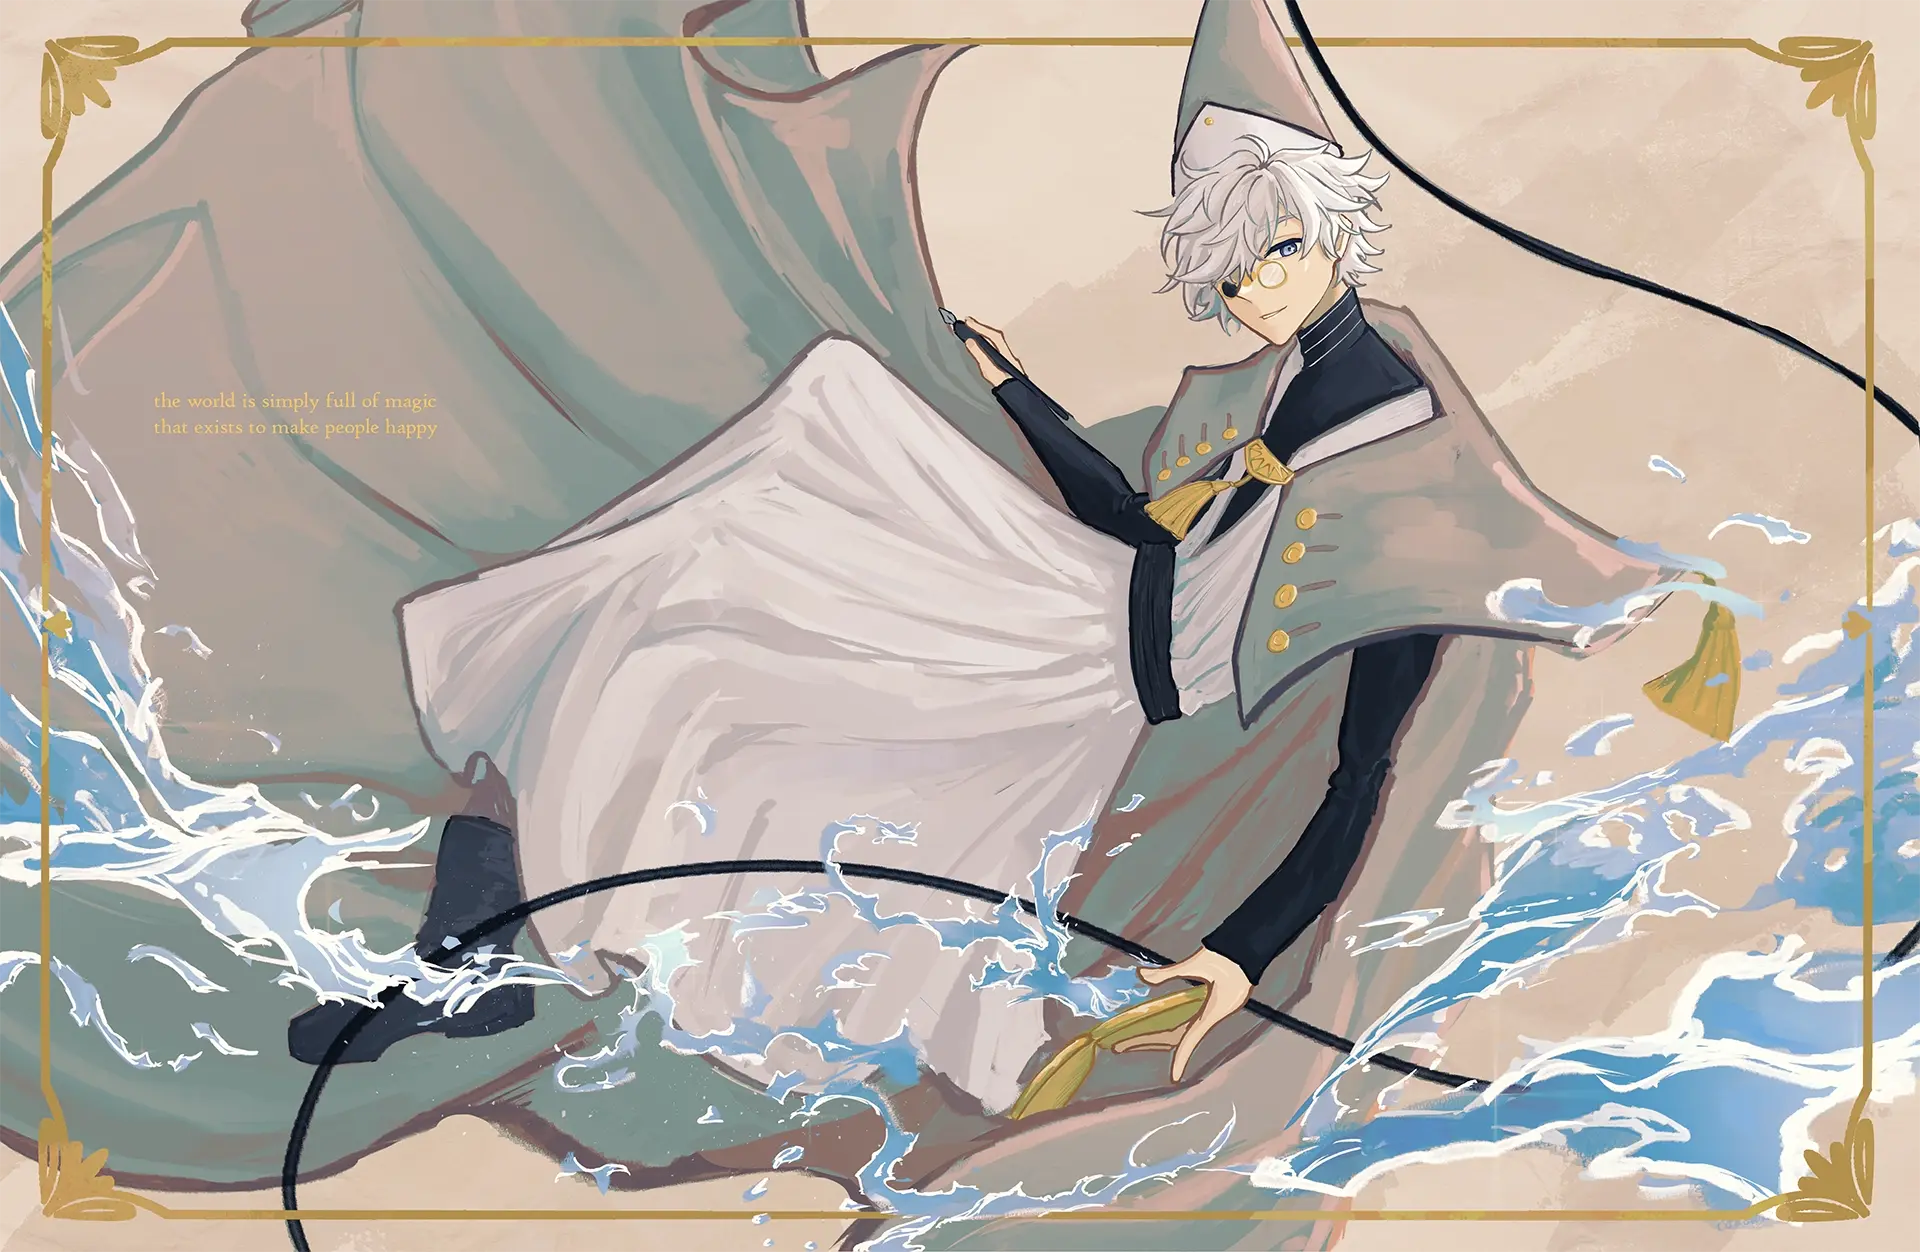
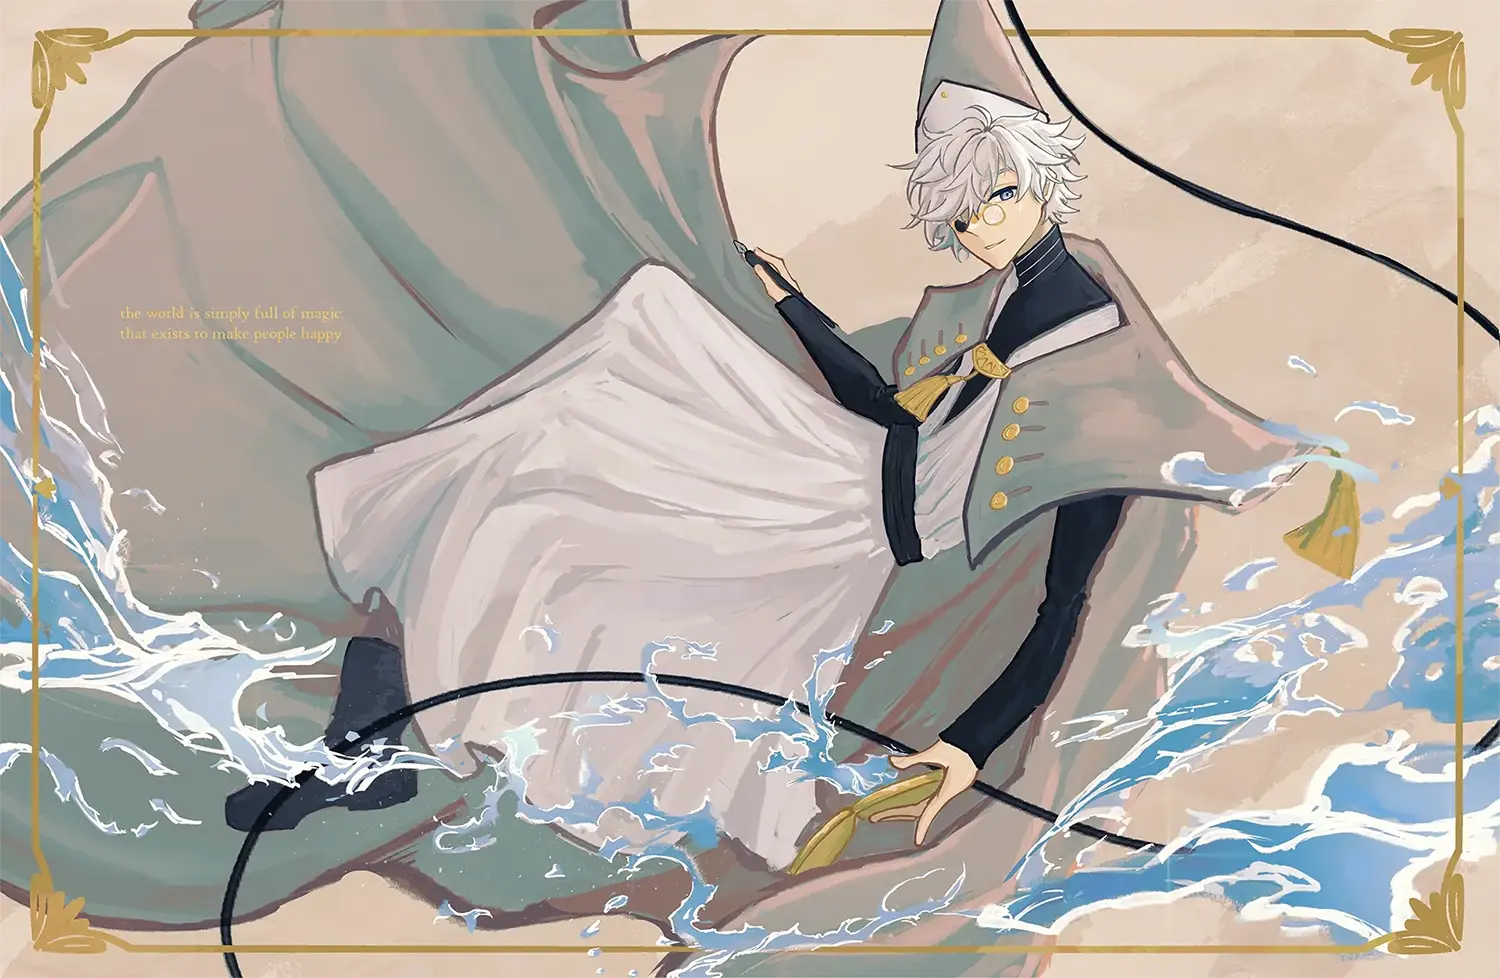
img optimization

Changed region(s): [[0.6747, 0.2454, 0.7053, 0.2761], [0.4907, 0.2454, 0.5213, 0.2761]]

diff --git a/index.html b/index.html
@@ -206,7 +206,7 @@
 
 
     <div class="grid-item">
-      <img class="img-responsive" alt="" src="./assets/images/orv trio.png">
+      <img class="img-responsive" alt="" src="./assets/images/orv trio.webp">
       <!-- <a href="./project.html" class="project-description">
         <div class="project-text-holder">
           <div class="project-text-inner">
@@ -293,7 +293,7 @@
     </div>
 
     <div class="grid-item">
-      <img class="img-responsive" alt="" src="./assets/images/luka_day.png">
+      <img class="img-responsive" alt="" src="./assets/images/luka_day.webp">
       <!-- <a href="./project.html" class="project-description">
         <div class="project-text-holder">
           <div class="project-text-inner">
